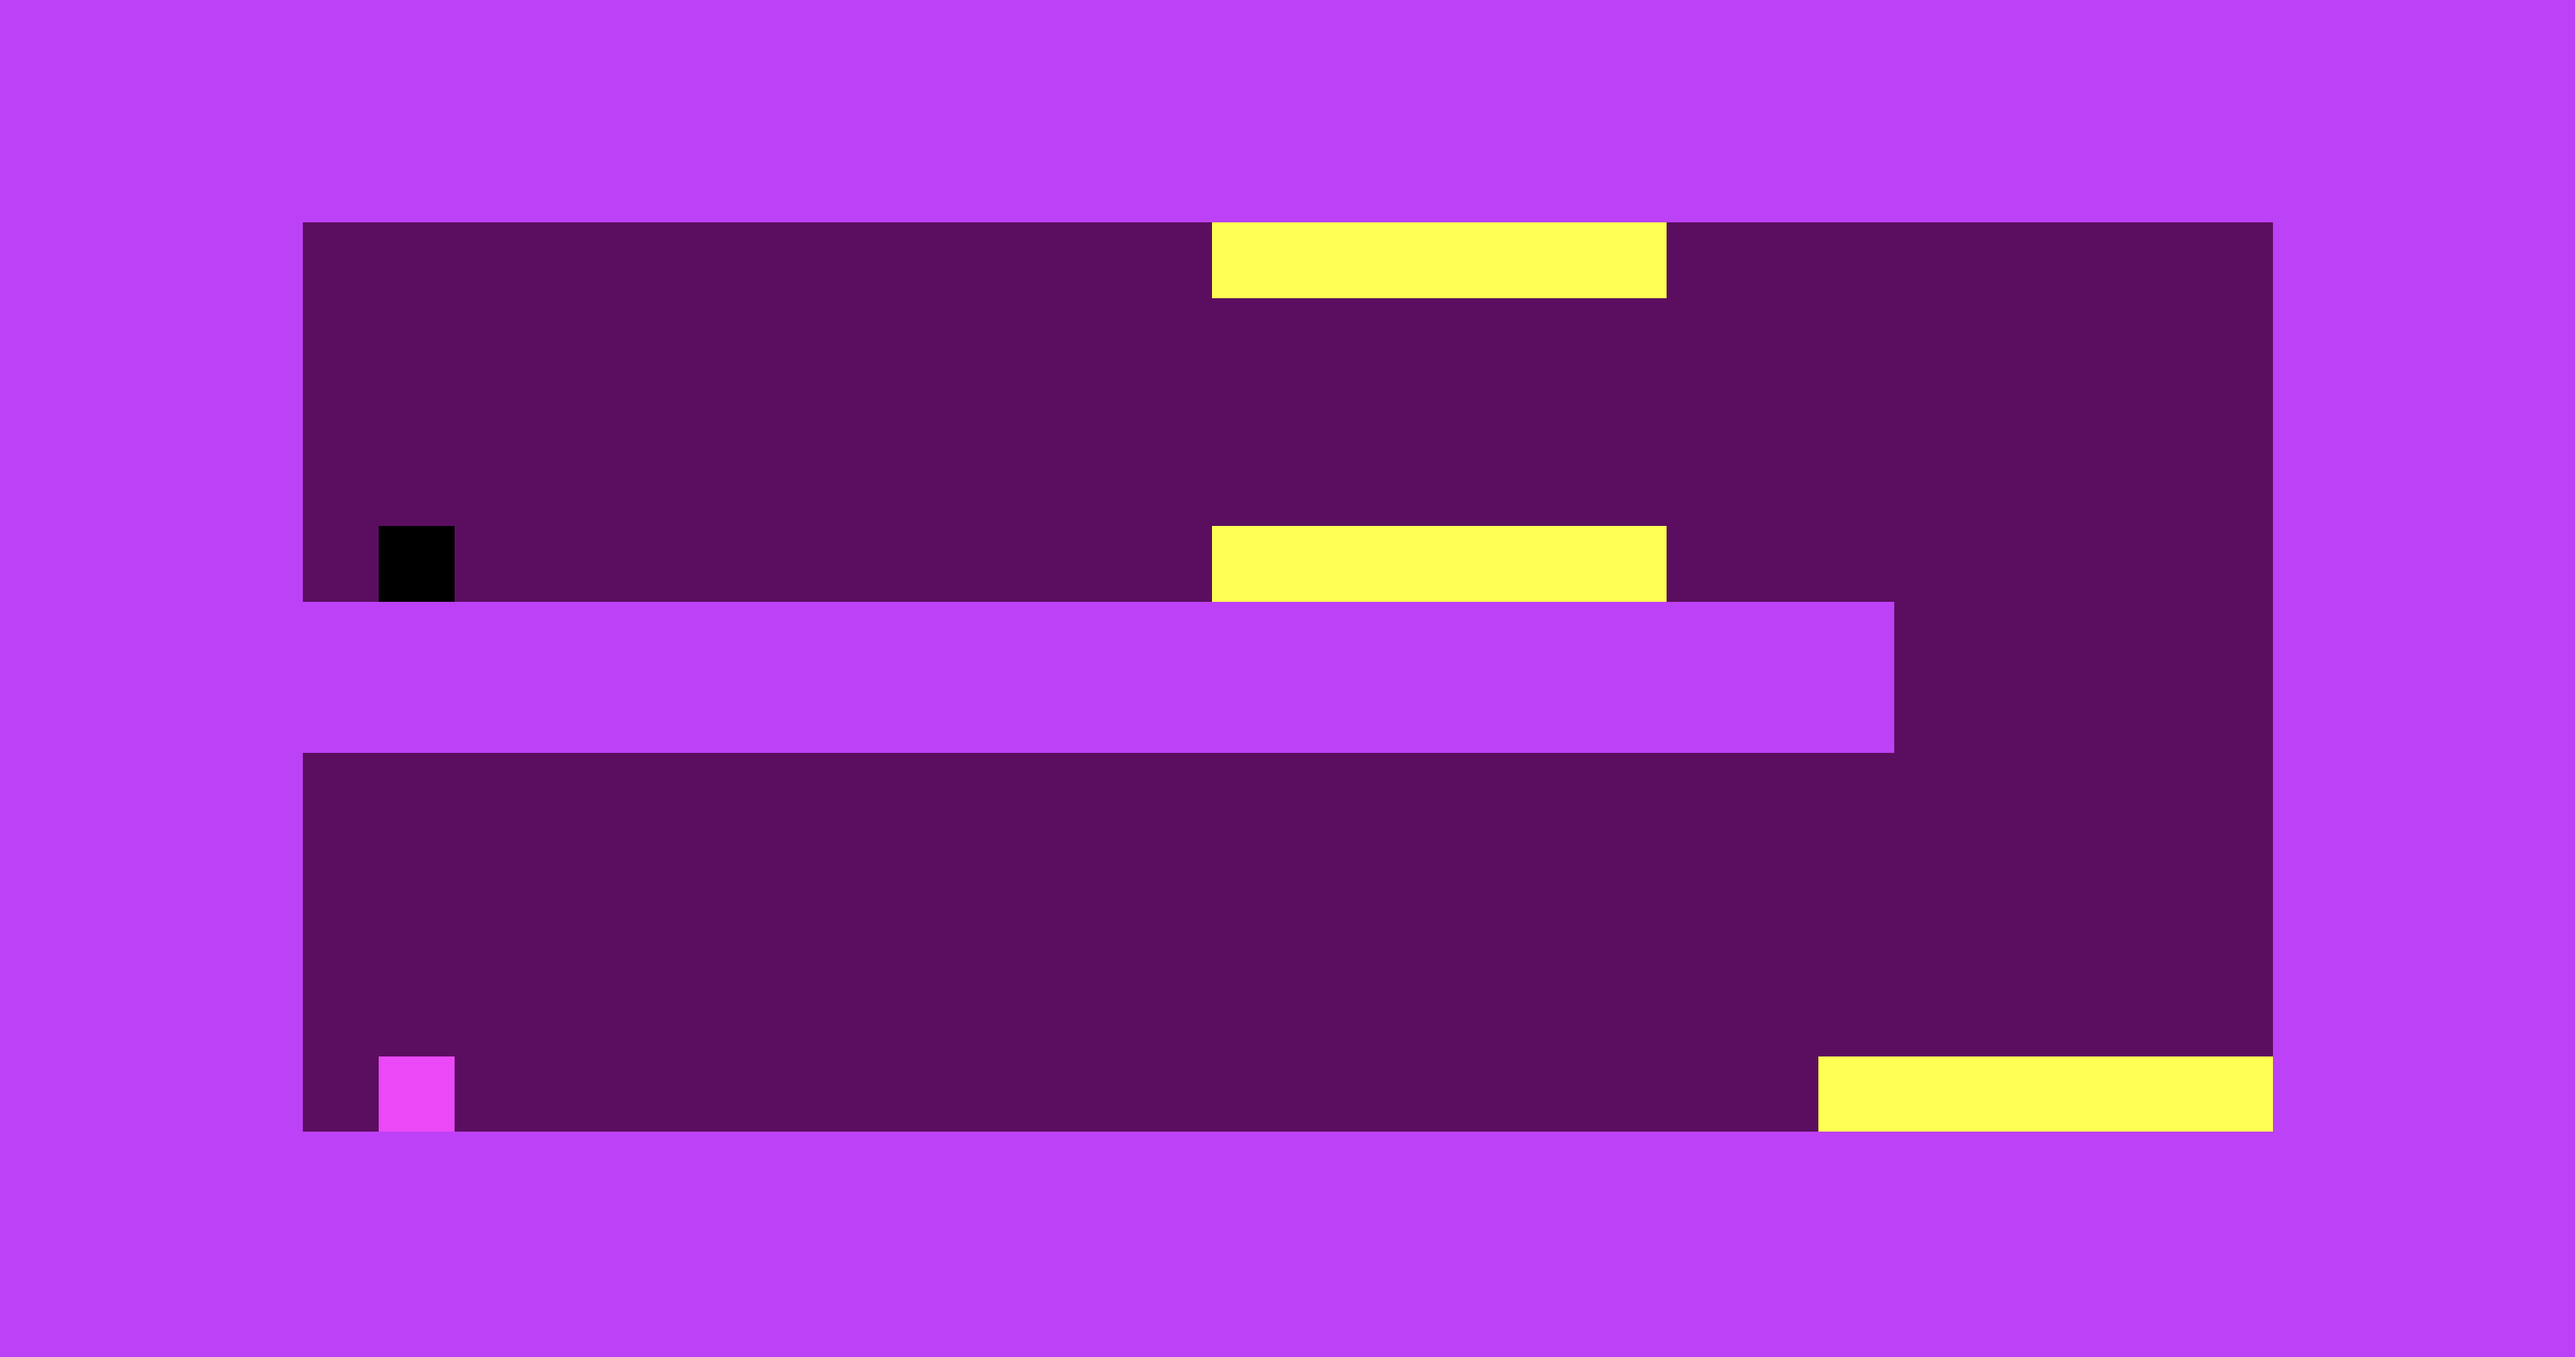
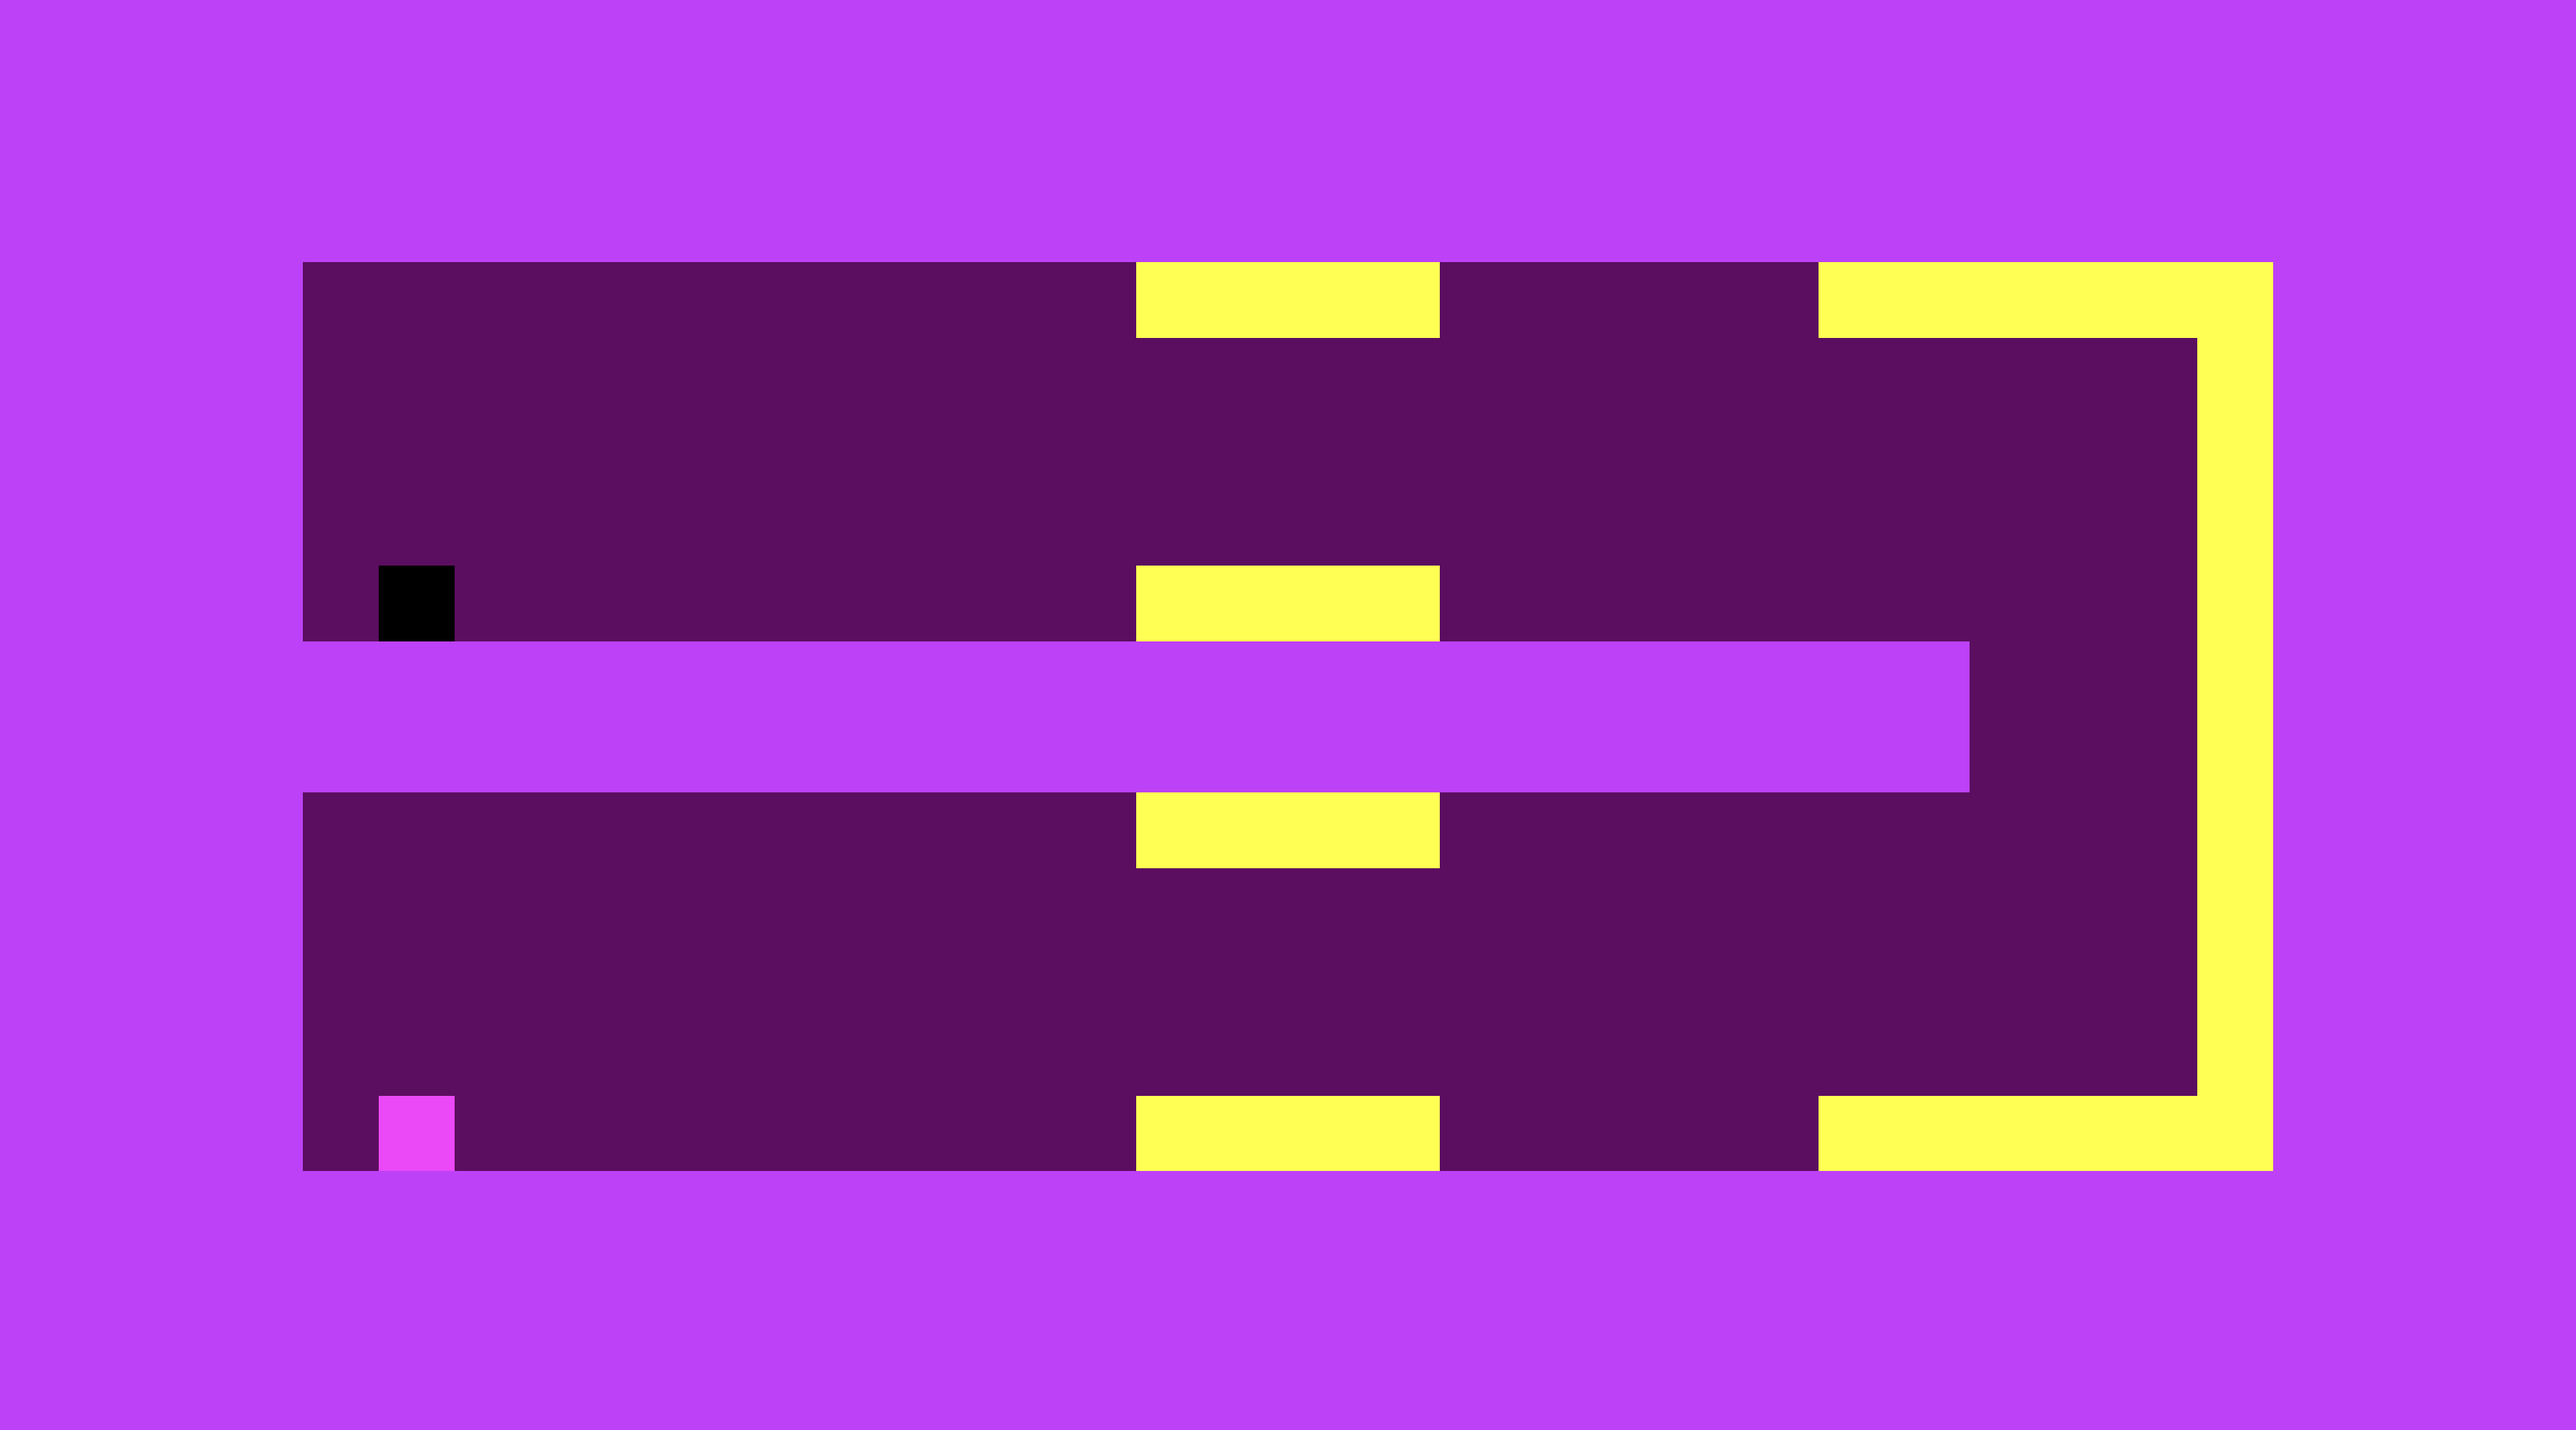
improve level design

diff --git a/src/index.js b/src/index.js
@@ -14,18 +14,18 @@ const MAP = createMap`
   ##################################
   ##################################
   ##################################
-  ####............vvvvvv........####
-  ####..........................####
-  ####..........................####
-  ####..........................####
-  ####............^^^^^^........####
-  #########################.....####
-  #########################.....####
-  ####..........................####
-  ####..........................####
-  ####..........................####
-  ####..........................####
-  ####.$..................^^^^^^####
+  ####...........vvvv.....vvvvvv####
+  ####.........................<####
+  ####.........................<####
+  ####.........................<####
+  ####...........^^^^..........<####
+  ##########################...<####
+  ##########################...<####
+  ####...........vvvv..........<####
+  ####.........................<####
+  ####.........................<####
+  ####.........................<####
+  ####.$.........^^^^.....^^^^^^####
   ##################################
   ##################################
   ##################################
@@ -144,11 +144,11 @@ const respawn = () => {
 const update = elapsedTime => {
   // Does nothing if the user is not playing
   // or if the player has won
-  if (!isUserPlaying || hasPlayerWon) return
+  if (!isUserPlaying) return
 
   // If the player is dead, it resets
   // the global state within 500 accumulated time
-  if (isPlayerDead) {
+  if (isPlayerDead || hasPlayerWon) {
     if (accumulatedTime < 500) {
       accumulatedTime += elapsedTime
 
@@ -160,12 +160,12 @@ const update = elapsedTime => {
 
   // Moves the player to the left
   if (keyboard.isDown('ArrowLeft')) {
-    playerVelocityX = -3
+    playerVelocityX = -2.5
   }
 
   // Moves the player to the right
   if (keyboard.isDown('ArrowRight')) {
-    playerVelocityX = 3
+    playerVelocityX = 2.5
   }
 
   // This verification is true when this
@@ -277,7 +277,7 @@ const update = elapsedTime => {
 
   // Player is dead when hitting
   // tiles with those patterns
-  if (['^', 'v'].includes(firstTile) || ['^', 'v'].includes(lastTile)) {
+  if (['^', 'v', '<'].includes(firstTile) || ['^', 'v', '<'].includes(lastTile)) {
     isPlayerDead = true
     accumulatedTime = 0
   }
@@ -346,7 +346,7 @@ const update = elapsedTime => {
 
   // Player is dead when hitting
   // tiles with those patterns
-  if (['^', 'v'].includes(firstTile) || ['^', 'v'].includes(lastTile)) {
+  if (['^', 'v', '<'].includes(firstTile) || ['^', 'v', '<'].includes(lastTile)) {
     isPlayerDead = true
     accumulatedTime = 0
   }
@@ -359,7 +359,7 @@ const update = elapsedTime => {
 
   // Adds some friction for the
   // next game loop iteration
-  playerVelocityX *= 0.8
+  playerVelocityX *= playerJumpCount > 0 ? 0.97 : 0.8
   playerVelocityY *= 0.8
 
   // Finally, updates the player X and Y position
@@ -370,45 +370,59 @@ const update = elapsedTime => {
 // Function responsible for rendering
 // the game on screen
 const render = () => {
-  // Always resets the canvas screen
-  canvas.context.fillStyle = '#640063'
-  canvas.context.fillRect(0, 0, WIDTH, HEIGHT)
+  if (isUserPlaying) {
+    // Always resets the canvas screen
+    canvas.context.fillStyle = '#640063'
+    canvas.context.fillRect(0, 0, WIDTH, HEIGHT)
 
-  // Gets the obstacle color
-  const obstacleColor = randomColor([
-    '#ff0000', '#ffff00', '#ffffff'
-  ])
+    // Gets the obstacle color
+    const obstacleColor = randomColor([
+      '#ff0000', '#ffff00', '#ffffff'
+    ])
 
-  // Iterates on the tile map
-  for (let index in MAP) {
-    // Gets the tile X and Y based on its index
-    let x = (index % COLUMNS) * SIZE
-    let y = Math.floor(index / COLUMNS) * SIZE
+    // Iterates on the tile map
+    for (let index in MAP) {
+      // Gets the tile X and Y based on its index
+      let x = (index % COLUMNS) * SIZE
+      let y = Math.floor(index / COLUMNS) * SIZE
 
-    switch(MAP[index]) {
-      // Renders the pink block
-      case '#':
-        canvas.context.fillStyle = '#cd33ff'
-        canvas.context.fillRect(x, y, SIZE, SIZE)
-        break;
-      // Renders the obstacles block
-      case '^':
-      case 'v':
-        canvas.context.fillStyle = obstacleColor
-        canvas.context.fillRect(x, y, SIZE, SIZE)
+      switch(MAP[index]) {
+        // Renders the pink block
+        case '#':
+          canvas.context.fillStyle = '#cd33ff'
+          canvas.context.fillRect(x, y, SIZE, SIZE)
+          break;
+        // Renders the obstacles block
+        case '^':
+        case 'v':
+        case '<':
+          canvas.context.fillStyle = obstacleColor
+          canvas.context.fillRect(x, y, SIZE, SIZE)
 
-        break;
-      // Renders the target block
-      case '$':
-        canvas.context.fillStyle = '#ff33ff'
-        canvas.context.fillRect(x, y, SIZE, SIZE)
-        break;
+          break;
+        // Renders the target block
+        case '$':
+          canvas.context.fillStyle = '#ff33ff'
+          canvas.context.fillRect(x, y, SIZE, SIZE)
+          break;
+      }
     }
-  }
 
-  // Renders the player
-  canvas.context.fillStyle = isPlayerDead ? '#ff0000' : '#000000'
-  canvas.context.fillRect(Math.round(playerPositionX), Math.round(playerPositionY), SIZE, SIZE)
+    // Renders the player
+    canvas.context.fillStyle = isPlayerDead ? '#ff0000' : '#000000'
+    canvas.context.fillRect(Math.round(playerPositionX), Math.round(playerPositionY), SIZE, SIZE)
+  } else {
+    canvas.context.fillStyle = '#cd33ff'
+    canvas.context.fillRect(0, 0, WIDTH, HEIGHT)
+
+    canvas.context.fillStyle = '#640063'
+    canvas.context.font = 'bold 12pt monospace'
+    canvas.context.textAlign = 'center'
+    canvas.context.textBaseline = 'middle'
+
+    canvas.context.fillText('BIT.TRIP RUNNER WARP ZONE CLONE', WIDTH / 2, HEIGHT / 2 - 15)
+    canvas.context.fillText('PRESS [ENTER] TO PLAY', WIDTH / 2, HEIGHT / 2 + 15)
+  }
 }
 
 keyboard.onKeyPress(key => {
@@ -420,10 +434,6 @@ keyboard.onKeyPress(key => {
       soundtrack.play()
         .then(() => isSoundtrackPlaying = true)
         .catch(() => isSoundtrackPlaying = false)
-    }
-
-    if (hasPlayerWon) {
-      respawn()
     }
 
     isUserPlaying = true

diff --git a/src/index.html b/src/index.html
@@ -5,6 +5,12 @@
     <meta http-equiv="X-UA-Compatible" content="IE=edge">
     <meta name="viewport" content="width=device-width, initial-scale=1.0">
     <title>Bit Trip Runner Game Clone</title>
+
+    <style>
+      body {
+        background-color: #cd33ff;
+      }
+    </style>
   </head>
 
   <body></body>
